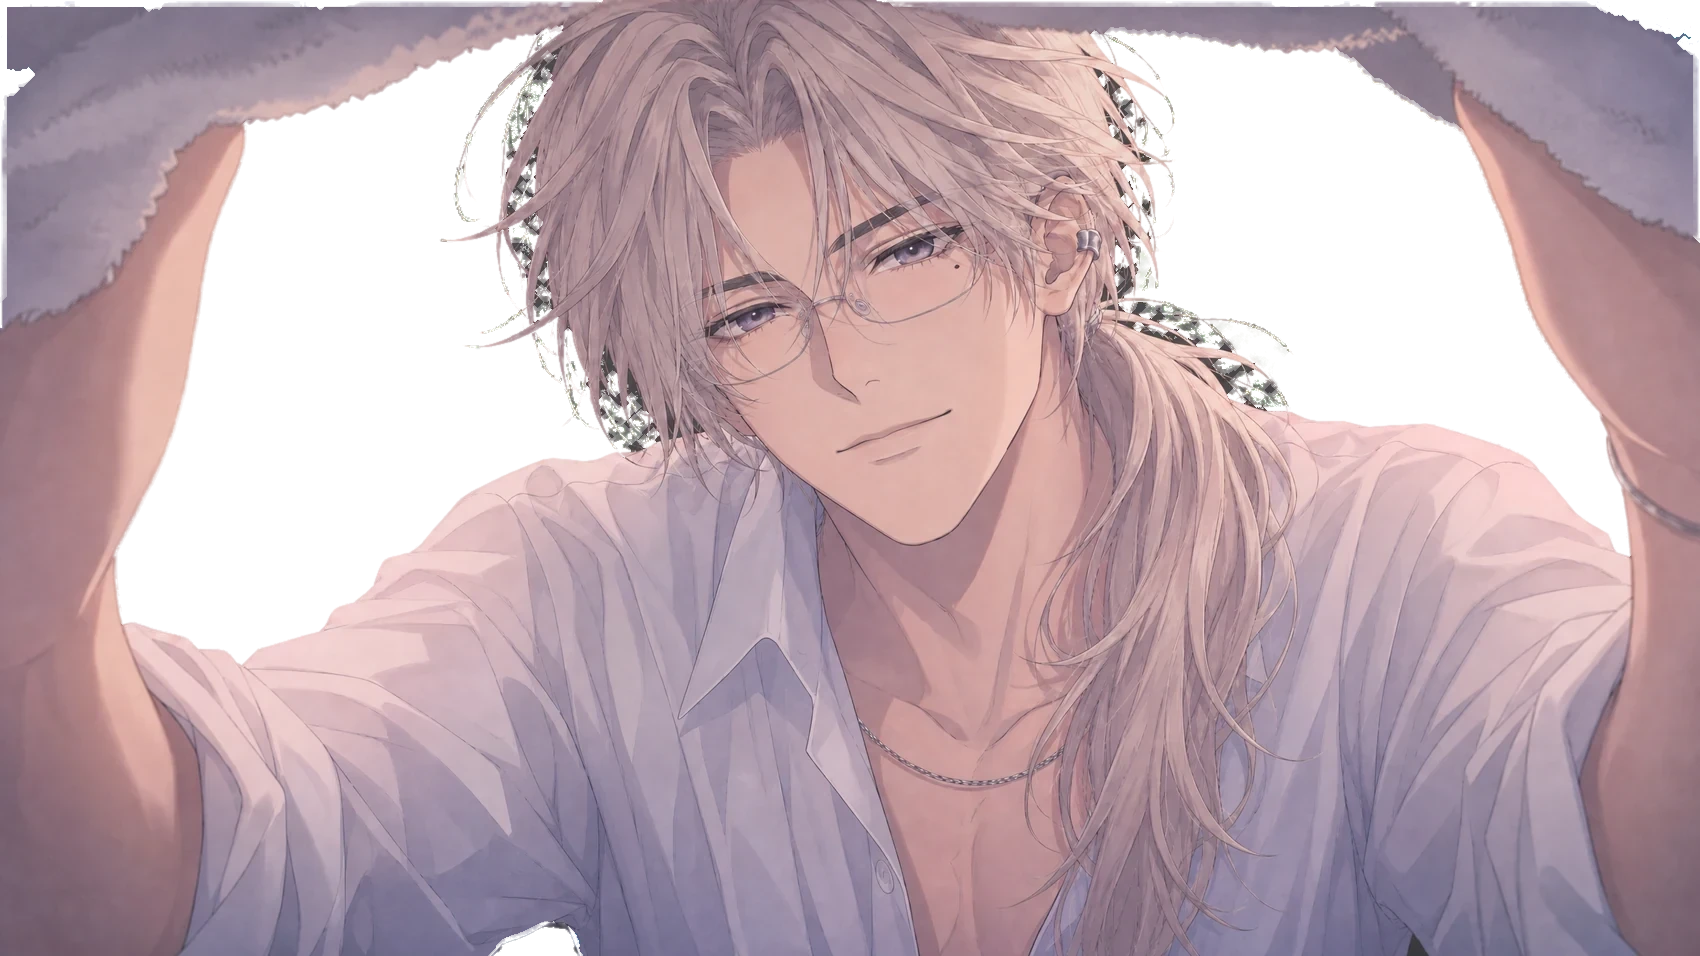
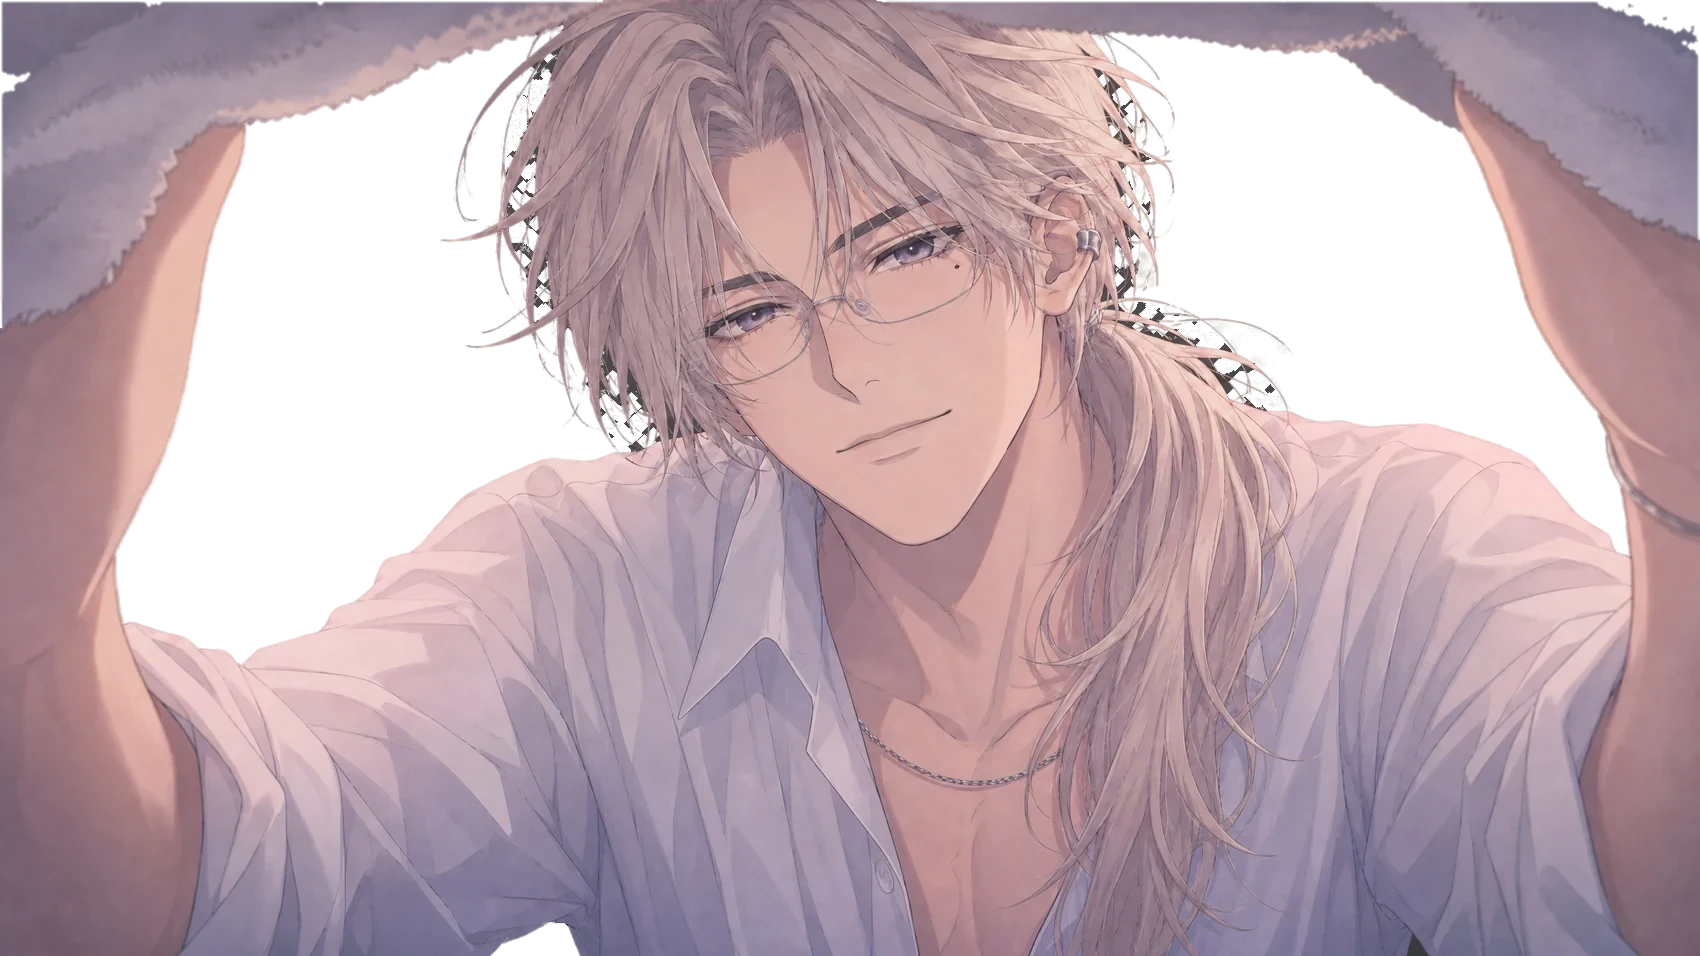
Demo22 towel: cut-out cleaned against the real studio grey (no dark pockets between hair strands); figure 1.045 high so every cut edge is ≥ 1.5 % outside the frame

diff --git a/demos/for-women/Demo22_ShionRain/media/layers.js b/demos/for-women/Demo22_ShionRain/media/layers.js
@@ -94,12 +94,12 @@ window.MOHEAT_LAYERS = {
     "zoom": 1.15
    },
    "char": {
-    "src": "art/char_towel.webp?v=fc7193ae",
+    "src": "art/char_towel.webp?v=7fa18a5a",
     "w": 1700,
     "h": 956,
     "x": 0.5,
     "y": 1.02,
-    "height": 1.02,
+    "height": 1.045,
     "box": [
      0,
      0,
